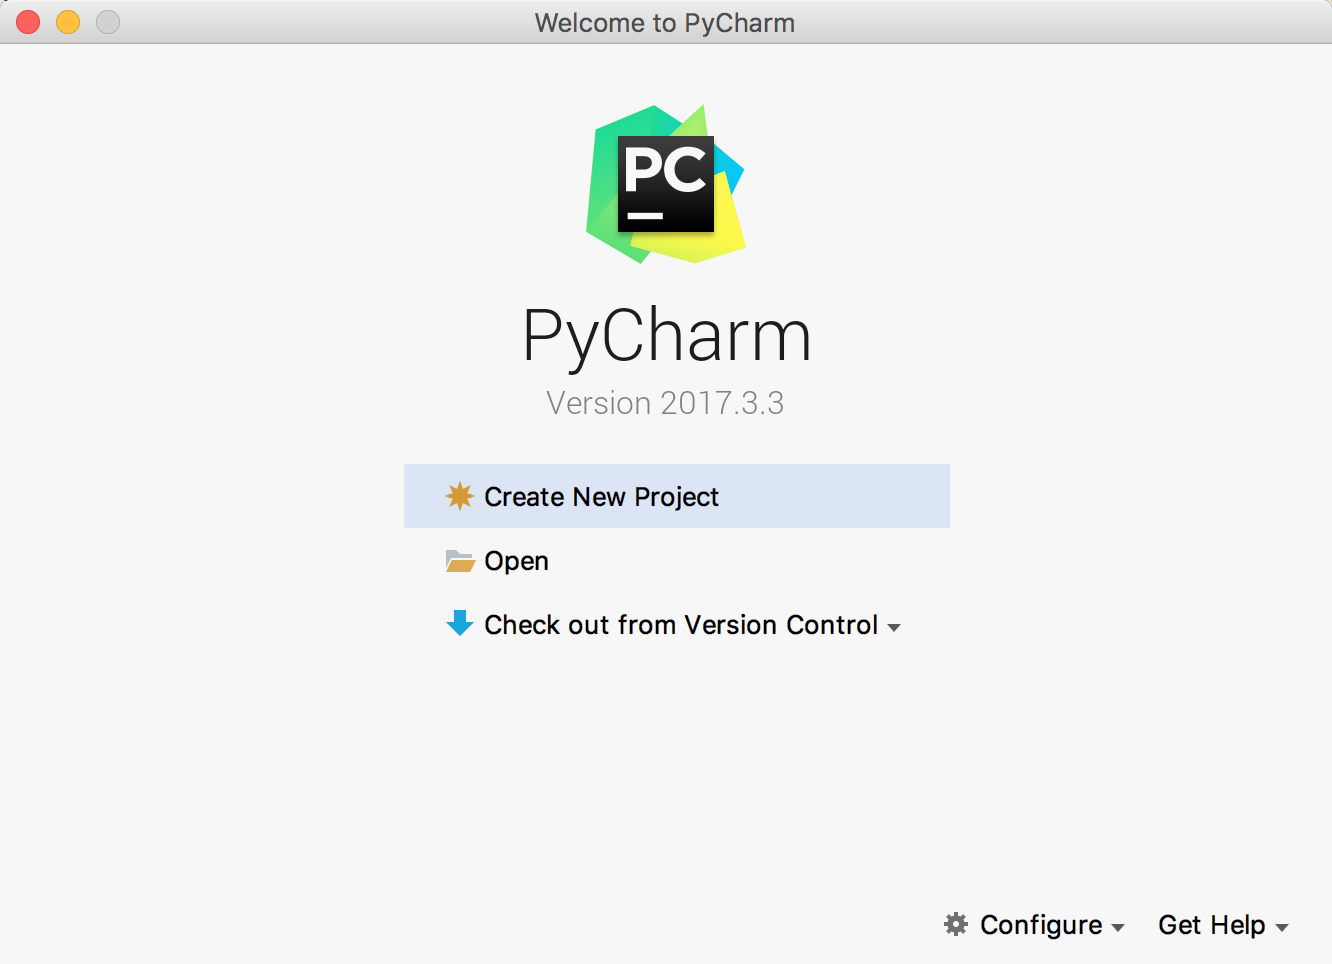
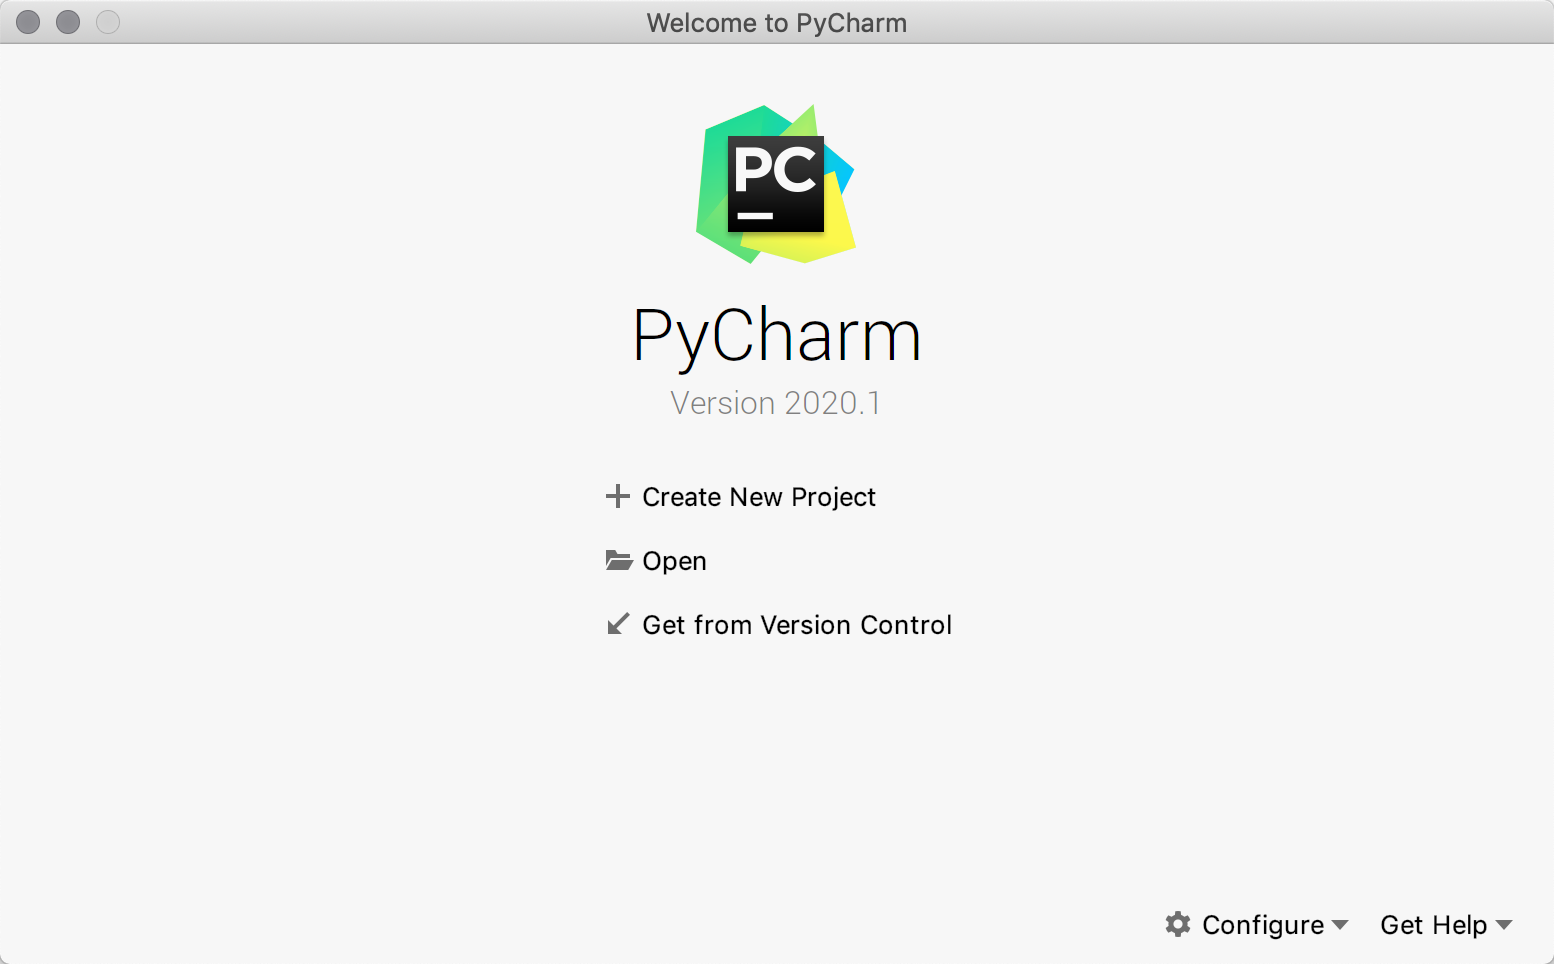
更新了部分文档和图片资源

diff --git a/玩转PyCharm.md b/玩转PyCharm.md
@@ -2,94 +2,104 @@
 
 PyCharm是由JetBrains公司开发的提供给Python专业的开发者的一个集成开发环境，它最大的优点是能够大大提升Python开发者的工作效率，为开发者集成了很多用起来非常顺手的功能，包括代码调试、高亮语法、代码跳转、智能提示、自动补全、单元测试、版本控制等等。此外，PyCharm还提供了对一些高级功能的支持，包括支持基于Django框架的Web开发。
 
-### PyCharm的安装
+### PyCharm的下载和安装
 
-可以在[JetBrains公司的官方网站]()找到PyCharm的[下载链接](https://www.jetbrains.com/pycharm/download/)，有两个可供下载的版本一个是社区版一个是专业版，社区版在[Apache许可证](https://zh.wikipedia.org/wiki/Apache%E8%AE%B8%E5%8F%AF%E8%AF%81)下发布，专业版在专用许可证下发布（需要购买授权下载后可试用30天），其拥有许多额外功能。安装PyCharm需要有JRE（Java运行时环境）的支持，如果没有可以在安装过程中选择在线下载安装。
+可以在[JetBrains公司的官方网站](<https://www.jetbrains.com/>)找到PyCharm的[下载链接](https://www.jetbrains.com/pycharm/download/)，有两个可供下载的版本，一个是社区版（PyCharm CE），一个是专业版（PyCharm Professional）。社区版在Apache许可证下发布，可以免费使用；专业版在专用许可证下发布，需要购买授权后才能使用，但新用户可以试用30天。很显然，专业版提供了更为强大的功能和对企业级开发的各种支持，但是对于初学者来说，社区版已经足够强大和好用了。安装PyCharm只需要直接运行下载的安装程序，然后持续的点击“下一步”就可以啦。下面是我在Windows系统下安装PyCharm的截图。
 
-> 说明：如果你是一名学生，希望购买PyCharm来使用，可以看看[教育优惠官方申请指南](https://sales.jetbrains.com/hc/zh-cn/articles/207154369)。
+![](res/pycharm-installation.png)
 
 ### 首次使用的设置
 
-第一次使用PyCharm时，会有一个导入设置的向导，如果之前没有使用PyCharm或者没有保存过设置的就直接选择“Do not import settings”进入下一步即可。
+第一次使用PyCharm时，会有一个导入设置的向导，如果之前没有使用PyCharm或者没有保存过设置的就直接选择“Do not import settings”进入下一步即可，下面是我在macOS系统下第一个使用PyCharm时的截图。
 
 ![](./res/pycharm-import-settings.png)
 
-专业版的PyCharm是需要激活的，**强烈建议为优秀的软件支付费用**，如果不用做商业用途，我们可以暂时选择试用30天或者使用社区版的PyCharm。
+专业版的PyCharm是需要激活的，**强烈建议大家在条件允许的情况下支付费用来支持优秀的产品**，如果不用做商业用途或者不需要使用PyCharm的高级功能，我们可以暂时选择试用30天或者使用社区版的PyCharm。如果你是一名学生，希望购买PyCharm来使用，可以看看[教育优惠官方申请指南](https://sales.jetbrains.com/hc/zh-cn/articles/207154369)。
 
-![](./res/pycharm-activate.png)
+![](./res/pycharm-activation.png)
 
  接下来是选择UI主题，这个可以根据个人喜好进行选择。
 
-![](./res/pycharm-set-ui-theme.png)
+![](./res/pycharm-ui-themes.png)
 
  再接下来是创建可以在终端（命令行）中使用PyCharm项目的启动脚本，当然也可以直接跳过这一步。
 
-![](./res/pycharm-create-launcher-script.png)
+![](./res/pycharm-create-launcher.png)
 
 然后可以选择需要安装哪些插件，我们可以暂时什么都不安装等需要的时候再来决定。
 
-![](./res/pycharm-plugins.png)
+![](./res/pycharm-install-plugins.png)
+
+最后点击上图右下角的“Start using PyCharm”就可以开始使用PyCharm了。
 
 ### 用PyCharm创建项目
 
-点击上图中的“Start using PyCharm”按钮就可以开始使用PyCharm啦，首先来到的是一个欢迎页，在欢迎页上我们可以选择“创建新项目”、“打开已有项目”和“从版本控制系统中检出项目”。
+启动PyCharm之后会来到一个欢迎页，在欢迎页上我们可以选择“创建新项目”（Create New Project）、“打开已有项目”（Open）和“从版本控制系统中检出项目”（Get from Version Control）。
 
 ![](./res/pycharm-welcome.png)
 
-如果选择了“Create New Project”来创建新项目就会打一个创建项目的向导页。
+如果选择了“Create New Project”来创建新项目就会打一个创建项目的向导页。下图所示是PyCharm专业版创建新项目的向导页，可以看出专业版支持的项目类型非常的多，而社区版只能创建纯Python项目（Pure Python），没有这一系列的选项。
 
-![](./res/pycharm-new-project.png)
+![](./res/pycharm-project-wizard.png)
 
-在如上图所示的界面中，我们可以选择创建项目的模板，包括了纯Python项目、基于各种不同框架的Web项目、Web前端项目、跨平台项目等各种不同的项目模板。如果选择Python的项目，那么有一个非常重要的设定是选择“New environment…”（创建新的虚拟环境）还是使用“Existing Interpreter”（已经存在的解释器）。前者肯定是更好的选择，因为新的虚拟环境不会对系统环境变量中配置的Python环境造成影响，简单举个例子就是你在虚拟环境下安装或者更新了任何三方库，它并不会对系统原有的Python解释器造成任何的影响，但代价是需要额外的存储空间来建立这个虚拟环境。
+接下来，我们要为项目创建专属的虚拟环境，每个Python项目最好都在自己专属的虚拟环境中运行，因为每个项目对Python解释器和三方库的需求并不相同，虚拟环境对不同的项目进行了隔离。在上图所示的界面在，我们可以选择新建虚拟环境（New environment using Virtualenv），这里的“Virtualenv”是PyCharm默认选择的创建虚拟环境的工具，我们就保留这个默认的选项就可以了。
 
-项目创建完成后就可以开始新建各种文件来书写Python代码了。
+项目创建完成后就可以开始新建各种文件来书写Python代码了，如下图所示。左侧是项目浏览器，可以看到刚才创建的项目文件夹以及虚拟环境文件夹。我们可以在项目上点击鼠标右键，选择“New”，在选择“Python File”来创建Python代码文件，下图中我们创建了两个Python文件，分别是`poker_game.py`和`salary_system.py`。当然，如果愿意，也可以使用复制粘贴的方式把其他地方的Python代码文件复制到项目文件夹下。
 
 ![](./res/pycharm-workspace.png)
 
-在工作窗口的右键菜单中可以找到“Run ...”和“Debug ...”菜单项，通过这两个菜单项我们就可以运行和调试我们的代码啦。建议关注一下菜单栏中的“Code”、“Refactor”和“Tools”菜单，这里面为编写Python代码提供了很多有用的帮助。
+在工作窗口点击鼠标右键可以在上下文菜单中找到“Run”选项，例如要运行`salary_system.py`文件，右键菜单会显示“Run 'salary_system'”选项，点击这个选项我们就可以运行Python代码啦，运行结果在屏幕下方的窗口可以看到，如下图所示。
 
-### 创建Django项目
+![](res/pycharm-run-result.png)
 
-#### 专业版
+### 常用操作和快捷键
 
-PyCharm专业版提供了对Django、Flask、Google App Engine、web2py等Python Web框架以及SQL、UML、前端语言和框架、远程调试、虚拟化部署等功能的支持，如果使用PyCharm专业版，在创建项目时可以直接选择创建Django项目并设置模板语言以及放置模板页的文件夹。
+PyCharm为写Python代码提供了自动补全和高亮语法功能，这也是PyCharm作为集成开发环境（IDE）的基本功能。PyCharm的“File”菜单有一个“Settings”菜单项（macOS上是在“PyCharm”菜单的“Preferences…”菜单项），这个菜单项会打开设置窗口，可以在此处对PyCharm进行设置，如下图所示。
 
-![](./res/pycharm-prof-django-3.png)
+![](res/pycharm-settings.png)
 
-创建好项目之后，打开终端输入`pip list`命令，可以看到项目所需的依赖项已经安装好了，而且可以直接点击屏幕右上方的运行或调试按钮来直接运行Django项目。
+PyCharm的菜单项中有一个非常有用的“Code”菜单，菜单中提供了自动生成代码、自动补全代码、格式化代码、移动代码等选项，这些功能对开发者来说是非常有用的，大家可以尝试使用这些菜单项或者记住它们对应的快捷键，例如在macOS上，格式化代码这个菜单项对应的快捷键是`alt+command+L`。除此之外，“Refactor”菜单也非常有用，它提供了一些重构代码的选项。所谓重构是在不改变代码执行结果的前提下调整代码的结构，这也是资深程序员的一项重要技能。还有一个值得一提的菜单是“VCS”，VCS是“Version Control System”（版本控制系统）的缩写，这个菜单提供了对代码版本管理的支持。版本控制的知识会在其他的课程中为大家讲解。
 
-![](./res/pycharm-prof-django-2.png)
+下表列出了一些PyCharm中特别常用的快捷键，当然如果愿意，也可以通过设置窗口中“Keymap”菜单项自定义快捷键，PyCharm本身也针对不同的操作系统和使用习惯对快捷键进行了分组。
 
-#### 社区版
+| 快捷键                                        | 作用                                   |
+| --------------------------------------------- | -------------------------------------- |
+| `command + j`                                 | 显示可用的代码模板                     |
+| `command + b`                                 | 查看函数、类、方法的定义               |
+| `ctrl + space`                                | 万能代码提示快捷键，一下不行按两下     |
+| `command + alt + l`                           | 格式化代码                             |
+| `alt + enter`                                 | 万能代码修复快捷键                     |
+| `ctrl + /`                                    | 注释/反注释代码                        |
+| `shift + shift`                               | 万能搜索快捷键                         |
+| `command + d` / `command + y`                 | 复制/删除一行代码                      |
+| `command + shift + -` / `command + shift + +` | 折叠/展开所有代码                      |
+| `F2`                                          | 快速定位到错误代码                     |
+| `command+ alt + F7`                           | 查看哪些地方用到了指定的函数、类、方法 |
 
-PyCharm社区版只能创建Python项目，如果项目中需要Django的支持，可以自行安装依赖库并创建Django项目。
+> **说明**：Windows系统下如果使用PyCharm的默认设置，可以将上面的`command`键换成`ctrl`键即可，唯一的例外是`ctrl + space`那个快捷键，因为它跟Windows系统切换输入法的快捷键是冲突的，所以在Windows系统下没有与之对应的快捷键。
 
-![](./res/pycharm-comm-django-1.png)
+### 常用操作和快捷键
 
-创建好Python项目之后，可以打开屏幕下方的终端（Terminal），并通过`pip install`安装Django项目的依赖项，可以通过`-i https://pypi.doubanio.com/simple`来指定下载依赖库的镜像仓库。
+PyCharm为写Python代码提供了自动补全和高亮语法功能，这也是PyCharm作为集成开发环境（IDE）的基本功能。PyCharm的“File”菜单有一个“Settings”菜单项（macOS上是在“PyCharm”菜单的“Preferences…”菜单项），这个菜单项会打开设置窗口，可以在此处对PyCharm进行设置，如下图所示。
 
-![](./res/pycharm-comm-django-2.png)
+![](res/pycharm-settings.png)
 
-当然也可以在项目的设置菜单中找到解释器配置，并选择要添加的依赖项。
+PyCharm的菜单项中有一个非常有用的“Code”菜单，菜单中提供了自动生成代码、自动补全代码、格式化代码、移动代码等选项，这些功能对开发者来说是非常有用的，大家可以尝试使用这些菜单项或者记住它们对应的快捷键，例如在macOS上，格式化代码这个菜单项对应的快捷键是`alt+command+L`。除此之外，“Refactor”菜单也非常有用，它提供了一些重构代码的选项。所谓重构是在不改变代码执行结果的前提下调整代码的结构，这也是资深程序员的一项重要技能。还有一个值得一提的菜单是“VCS”，VCS是“Version Control System”（版本控制系统）的缩写，这个菜单提供了对代码版本管理的支持。版本控制的知识会在其他的课程中为大家讲解。
 
-![](./res/pycharm-comm-django-7.png)
+下表列出了一些PyCharm中特别常用的快捷键，当然如果愿意，也可以通过设置窗口中“Keymap”菜单项自定义快捷键，PyCharm本身也针对不同的操作系统和使用习惯对快捷键进行了分组。
 
-下面是搜索依赖项的界面，可以通过点击“Install Package”按钮来安装指定的依赖项；也可以通过点击“Manage Repositories”按钮来指定下载依赖项的仓库，国内用户推荐使用豆瓣镜像<http://pypi.doubanio.com/simple>。
+| 快捷键                                        | 作用                                   |
+| --------------------------------------------- | -------------------------------------- |
+| `command + j`                                 | 显示可用的代码模板                     |
+| `command + b`                                 | 查看函数、类、方法的定义               |
+| `ctrl + space`                                | 万能代码提示快捷键，一下不行按两下     |
+| `command + alt + l`                           | 格式化代码                             |
+| `alt + enter`                                 | 万能代码修复快捷键                     |
+| `ctrl + /`                                    | 注释/反注释代码                        |
+| `shift + shift`                               | 万能搜索快捷键                         |
+| `command + d` / `command + y`                 | 复制/删除一行代码                      |
+| `command + shift + -` / `command + shift + +` | 折叠/展开所有代码                      |
+| `F2`                                          | 快速定位到错误代码                     |
+| `command+ alt + F7`                           | 查看哪些地方用到了指定的函数、类、方法 |
 
-![](./res/pycharm-comm-django-8.png)
-
-接下来可以在终端中输入`django-amdin startproject`指令来创建项目。
-
-![](./res/pycharm-comm-django-3.png)
-
-如果要运行项目，可以在终端中输入`python manage.py runserver`启动测试服务器。当然，也可以点击屏幕右上方的“Add Configuration”按钮，进入如下所示的配置界面，并点击窗口左上角的“+”来添加一个运行配置。
-
-![](./res/pycharm-comm-django-4.png)
-
-在配置窗口的右侧，指定要执行的脚本路径（Django项目的manage.py文件的位置）和运行参数（runserver），运行参数的后面还可以跟IP地址和端口。
-
-![](./res/pycharm-comm-django-5.png)
-
-注意到窗口的右上角了吗？现在可以点击运行或调试按钮来启动测试服务器运行项目了。
-
-![](./res/pycharm-comm-django-6.png)
+> **说明**：Windows系统下如果使用PyCharm的默认设置，可以将上面的`command`键换成`ctrl`键即可，唯一的例外是`ctrl + space`那个快捷键，因为它跟Windows系统切换输入法的快捷键是冲突的，所以在Windows系统下没有与之对应的快捷键。

diff --git a/番外篇/那些年我们踩过的那些坑.md b/番外篇/那些年我们踩过的那些坑.md
@@ -7,7 +7,7 @@
 - `is`比较的是两个整数对象的id值是否相等，也就是比较两个引用是否代表了内存中同一个地址。
 - `==`比较的是两个整数对象的内容是否相等，使用`==`时其实是调用了对象的`__eq__()`方法。
 
-知道了`is`和`==`的区别之后，我们可以来看看下面的代码，了解Python中整数比较有哪些坑：
+知道了`is`和`==`的区别之后，我们可以来看看下面的代码，了解Python中整数比较有哪些坑，**以CPython解释器为例**，大家先看看下面的代码。
 
 ```Python
 def main():
@@ -36,7 +36,7 @@ if __name__ == '__main__':
 	main()
 ```
 
-上面代码的部分运行结果如下图所示，出现这个结果的原因是Python出于对性能的考虑所做的一项优化。对于整数对象，Python把一些频繁使用的整数对象缓存起来，保存到一个叫`small_ints`的链表中，在Python的整个生命周期内，任何需要引用这些整数对象的地方，都不再重新创建新的对象，而是直接引用缓存中的对象。Python把频繁使用的整数对象的值定在[-5, 256]这个区间，如果需要这个范围的整数，就直接从`small_ints`中获取引用而不是临时创建新的对象。因为大于256或小于-5的整数不在该范围之内，所以就算两个整数的值是一样，但它们是不同的对象。
+上面代码的部分运行结果如下图所示。这个结果是因为CPython出于性能优化的考虑，把频繁使用的整数对象用一个叫`small_ints`的对象池缓存起来造成的。`small_ints`缓存的整数值被设定为`[-5, 256]`这个区间，也就是说，如果使用CPython解释器，在任何引用这些整数的地方，都不需要重新创建`int`对象，而是直接引用缓存池中的对象。如果整数不在该范围内，那么即便两个整数的值相同，它们也是不同的对象。
 
 ![](./res/int-is-comparation.png)
 
@@ -58,7 +58,7 @@ if __name__ == "__main__":
 	main()
 ```
 
-程序的执行结果已经用注释写在代码上了。够坑吧！看上去`a`、`b`和`c`的值都是一样的，但是`is`运算的结果却不一样。为什么会出现这样的结果，首先我们来说说Python程序中的代码块。所谓代码块是程序的一个最小的基本执行单位，一个模块文件、一个函数体、一个类、交互式命令中的单行代码都叫做一个代码块。上面的代码由两个代码块构成，`a = 257`是一个代码块，`main`函数是另外一个代码块。Python内部为了进一步提高性能，凡是在一个代码块中创建的整数对象，如果值不在`small_ints`缓存范围之内，但在同一个代码块中已经存在一个值与其相同的整数对象了，那么就直接引用该对象，否则创建一个新的对象出来，这条规则对不在`small_ints`范围的负数并不适用，对负数值浮点数也不适用，但对非负浮点数和字符串都是适用的，这一点读者可以自行证明。所以 `b is c`返回了`True`，而`a`和`b`不在同一个代码块中，虽然值都是257，但却是两个不同的对象，`is`运算的结果自然是`False`了。
+程序的执行结果已经用注释写在代码上了。够坑吧！看上去`a`、`b`和`c`的值都是一样的，但是`is`运算的结果却不一样。为什么会出现这样的结果，首先我们来说说Python程序中的代码块。所谓代码块是程序的一个最小的基本执行单位，一个模块文件、一个函数体、一个类、交互式命令中的单行代码都叫做一个代码块。上面的代码由两个代码块构成，`a = 257`是一个代码块，`main`函数是另外一个代码块。CPython内部为了进一步提高性能，凡是在一个代码块中创建的整数对象，如果值不在`small_ints`缓存范围之内，但在同一个代码块中已经存在一个值与其相同的整数对象了，那么就直接引用该对象，否则创建一个新的对象出来，在早些时候的CPython中，这条规则对负数并不适用，但对非负整数、浮点数和字符串都是适用的，这一点读者可以自行证明。所以 `b is c`返回了`True`，而`a`和`b`不在同一个代码块中，虽然值都是257，但却是两个不同的对象，`is`运算的结果自然是`False`了。
 为了验证刚刚的结论，我们可以借用`dis`模块（听名字就知道是进行反汇编的模块）从字节码的角度来看看这段代码。如果不理解什么是字节码，可以先看看[《谈谈 Python 程序的运行原理》]((http://www.cnblogs.com/restran/p/4903056.html))这篇文章。可以先用`import dis`导入`dis`模块并按照如下所示的方式修改代码。
 
 ```Python

diff --git a/番外篇/租房网项目接口文档.md b/番外篇/租房网项目接口文档.md
@@ -8,7 +8,7 @@
 
       最后修改时间：
 
-      接口说明：登录成功后，会在`tb_user_token`表中保存或更新用户令牌（token）。
+      接口说明：登录成功后，会生成或更新用户令牌（token）。
 
       使用帮助：测试数据库中预设了四个可供使用的账号，如下表所示。
 

diff --git a/Day16-20/16-20.Python语言进阶.md b/Day16-20/16-20.Python语言进阶.md
@@ -566,7 +566,7 @@
   
   
   @singleton
-  class President():
+  class President:
       """总统(单例类)"""
       pass
   ```
